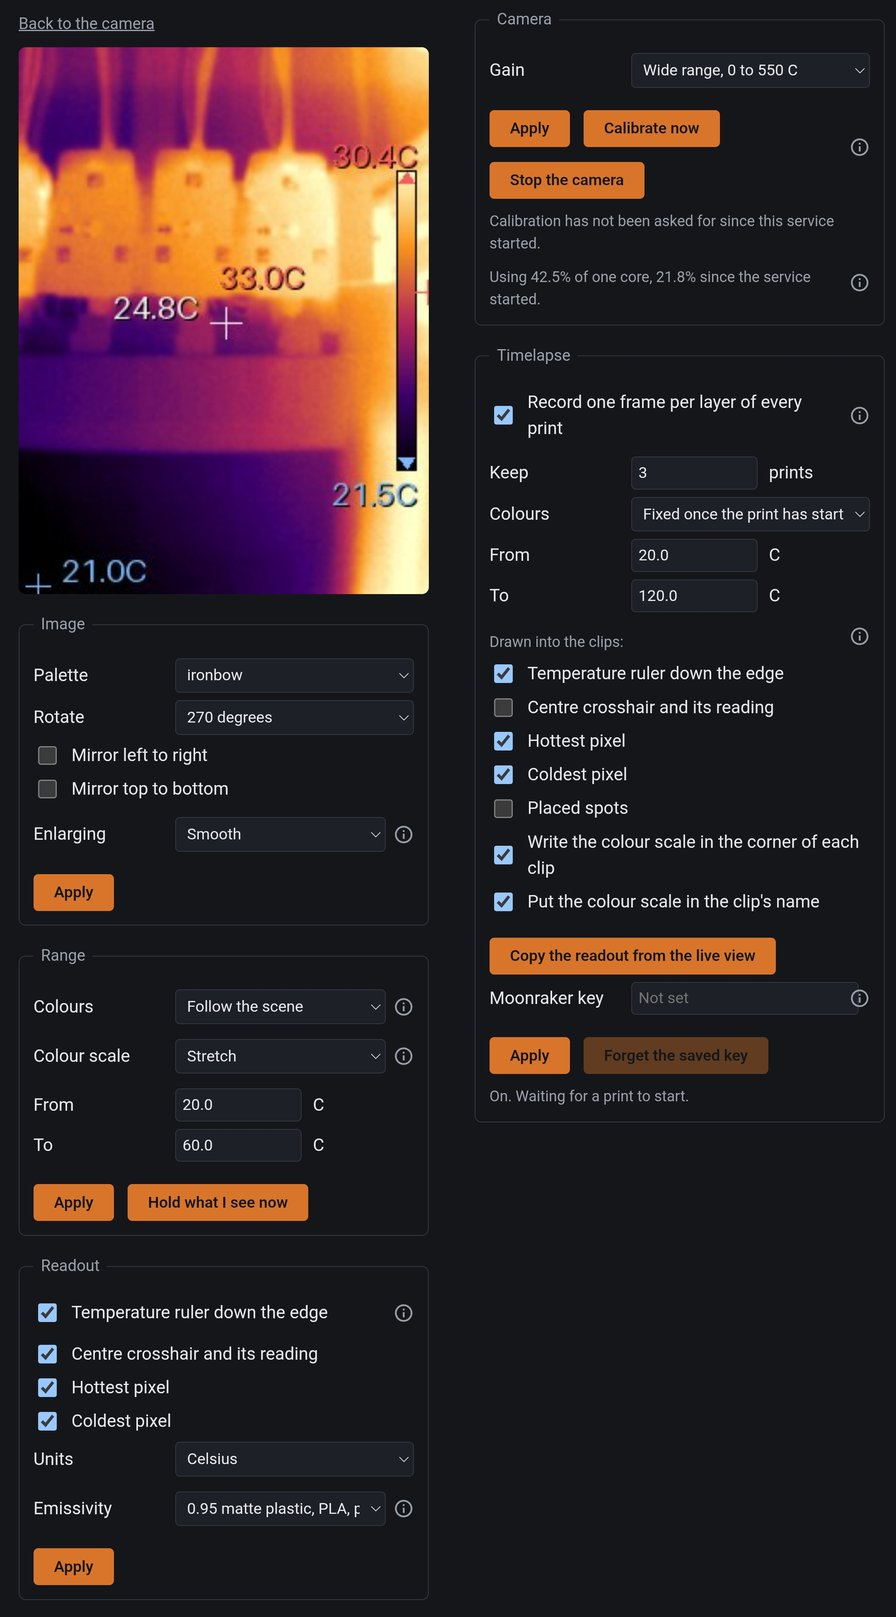
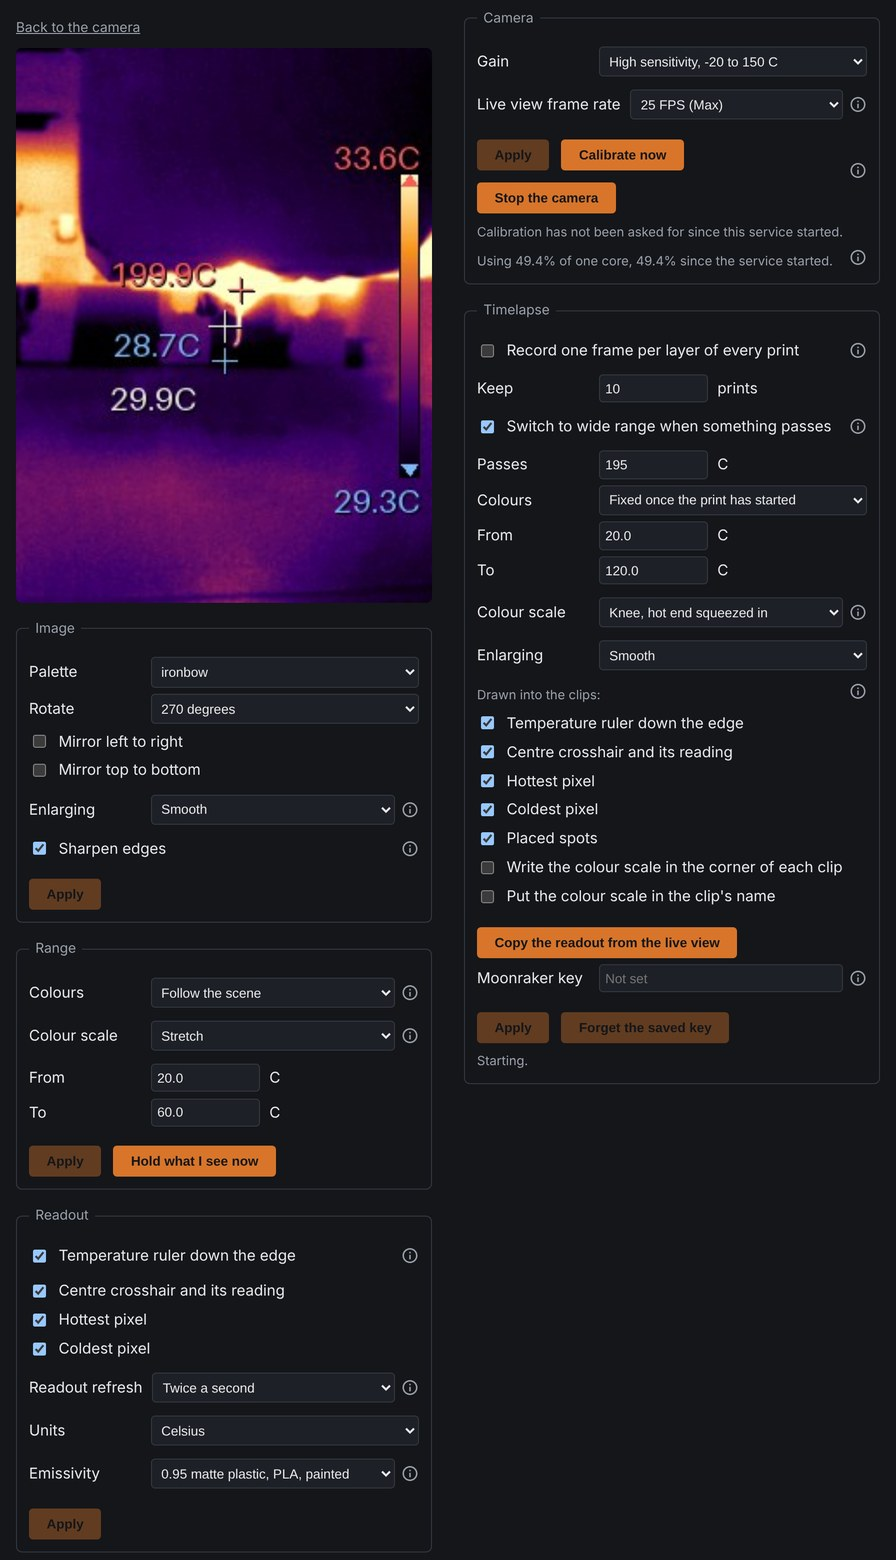
1.0.0: the P3 on a printer, and what the live view costs is yours to choose

diff --git a/plugin/files/lib/thermal_master/page.py b/plugin/files/lib/thermal_master/page.py
@@ -60,7 +60,7 @@ from .version import plugin_version
 # interpolation.
 UPSCALE_FILTER_DESCRIPTIONS = {
     "smooth": "Smooth",
-    "sharp": "Sharp, cheaper",
+    "sharp": "Sharp",
 }
 
 
@@ -185,8 +185,9 @@ INFO_TEXTS = {
         "happens while some part of the readout is switched on. Smooth blends the sensor's pixels "
         "and enlarges only as far as the text needs: twice for a P1, one and a quarter times for "
         "a P3. Sharp leaves them as squares, in whole steps, so twice for both. With a P1, sharp "
-        "is about a sixth less work for the printer per frame. Which one looks better depends on "
-        "the scene and the screen.",
+        "is about a sixth less work for the printer per frame. With a P3 it is the other way "
+        "round: smooth is slightly less work, because it enlarges less. Which one looks better "
+        "depends on the scene and the screen.",
     ),
     "sharpening": (
         "sharpening",

diff --git a/plugin/tests/test_page_info.py b/plugin/tests/test_page_info.py
@@ -62,3 +62,15 @@ def test_the_foot_of_the_page_names_the_version(thermal_streamer, palettes):
     version = json.loads(MANIFEST.read_text())["version"]
 
     assert f'<p class="version">Thermal Master {version}</p>' in page(thermal_streamer, palettes)
+
+
+def test_sharp_enlarging_is_not_called_cheaper(thermal_streamer, palettes):
+    """It is for a P1 and it is not for a P3, which it enlarges twice where smooth stops short."""
+
+    store = thermal_streamer.SettingsStore("ironbow", thermal_streamer.RenderSettings(), None)
+
+    page = thermal_streamer.render_control_page(store.as_dict(), list(palettes))
+
+    assert '<option value="sharp">Sharp</option>' in page
+    assert "cheaper" not in page
+    assert "With a P3 it is the other way round" in page

diff --git a/plugin/doc/README.md b/plugin/doc/README.md
@@ -34,8 +34,8 @@ applies:
 - Discount code: `THERMALYML01`, at that shop
 
 It is an affiliate link, so the project earns a commission, at no extra cost to you. It changes
-nothing about what this documentation says: the P3 still has not been tested, which is worth knowing
-before buying one.
+nothing about what this documentation says: [Hardware status](#hardware-status) lists what has not
+been checked on a P3 yet, which is worth knowing before buying one.
 
 ## Setting it up
 
@@ -53,7 +53,7 @@ recalibrate the sensor. Changes take effect immediately and are remembered acros
 beside an option explains it: hover over it to read, or click it to keep the explanation open until
 the next click. The plugin's version is at the foot of the page.
 
-![The settings page on a phone: the live picture and the Image, Range and Readout panels, then the Camera and Timelapse panels](images/settings.jpg)
+![The settings page on a phone, with a P3 looking at a hot nozzle: the live picture and the Image, Range and Readout panels, then the Camera and Timelapse panels](images/settings.jpg)
 
 | Panel | Setting | JSON field | Values |
 | --- | --- | --- | --- |
@@ -127,9 +127,14 @@ Where two markers land close together, the second one moves its number rather th
 first.
 
 Burned into the picture rather than drawn over it, so the stream and the still carry their own
-readout wherever they are opened, including anything that fetches them outside this plugin. The cost is that switching the readout on doubles
-the encoded size, so the text survives being scaled by a browser. Switching it off returns the
-plugin to what it cost without a readout.
+readout wherever they are opened, including anything that fetches them outside this plugin. The
+cost is that switching the readout on enlarges the encoded picture, so the text survives being
+scaled by a browser: twice for a P1, and one and a quarter times for a P3 with smooth enlarging.
+Switching it off returns the plugin to what it cost without a readout.
+
+In the live view the ruler's numbers and the markers are worked out twice a second and hold still
+in between, while the colours follow every frame. "Readout refresh" changes that, up to every
+frame; [What each setting costs](#what-each-setting-costs) has what each choice is worth.
 
 `/thermal/stats` serves the same numbers as JSON, along with the frame average and the coldest
 pixel, and the pixel coordinates of both extremes in the orientation you are looking at.
@@ -220,9 +225,9 @@ Temperatures remain the camera's own readings with an emissivity correction appl
 watching a nozzle warm up or finding a cold corner of a bed; not metrology.
 
 The P1 is the camera this has been developed and run against, on a printer, every step of the way.
-The P3 is implemented from the same driver and its own model configuration, and has never been run
-on a printer: the resolution, the model detection and the gain modes are all in place and none of
-them have met the hardware. If you have a P3, it should work, and a report either way is welcome.
+The P3 has run on the same printer since November 2026: the model detection, the resolution, the
+picture and the calibration have met the hardware. Its wide range gain has not been tried yet, and
+neither camera's readings have been checked against a known temperature.
 
 ## Timelapse
 
@@ -364,8 +369,8 @@ written for was most of them.
 **Off is the deeper version of the same idea, and it is a button.** Stop, on the settings page or
 in the camera view's toolbar, releases the USB device: nothing is read, nothing is rendered, and
 the camera can be unplugged. Start brings it back. Measured on the U1 with the camera off and
-nothing open, the plugin used 0.0% of a core over half a minute, against 4.6% idling and 40.6%
-before any of this existed.
+nothing open, the plugin used 0.0% of a core over half a minute, against 2.1% idling with a P1
+today and 40.6% before any of this existed.
 
 While it is off, everything that shows the camera shows a "Stream off" picture naming the button
 that restarts it, rather than a broken image or an error, because that picture travels the same
@@ -387,9 +392,60 @@ Both printers measured below have four cores, so 100% of one core is a quarter o
 the figure can pass 100% because the plugin has more than one thread. It reads highest on the
 settings page itself, which holds a live stream open and is therefore somebody watching.
 
-### Measured on two printers
+### What each setting costs
 
-As a share of one core, read from the kernel.
+Measured on a Snapmaker U1 on 2026-11-13 and 2026-11-14 with `scripts/measure-cpu-on-printer.sh`,
+each state held for 30 seconds, as a share of one of its four Cortex-A53 cores. One dashboard
+tile open in Fluidd and nothing else, smooth enlarging, "Sharpen edges" on, the whole readout on,
+unless the row says otherwise.
+
+**What is open**
+
+| State | P1 | P3 |
+| --- | --- | --- |
+| Camera stopped | 0.0% | not measured |
+| Nothing watching | 2.1% | 2.5% |
+| A tile open, live view Off (the timelapse still records) | 2.6% | 2.8% |
+| A tile open, as installed: 25 FPS, readout twice a second | 34.4% | 49.4% |
+
+**Live view frame rate**, with the readout drawn on every frame
+
+| Live view frame rate | P1 | P3 |
+| --- | --- | --- |
+| 25 FPS (Max) | 40.4% | 56.3% |
+| 20 FPS | 33.8% | 45.5% |
+| 15 FPS | 25.9% | 34.9% |
+| 10 FPS | 17.9% | 23.9% |
+| 5 FPS | 10.2% | 13.3% |
+| Off | 2.6% | 2.8% |
+
+Each picture a second is about 1.5 points for a P1 and 2.1 for a P3.
+
+**Readout refresh**, at 25 FPS
+
+| Readout refresh | P1 | saved | P3 | saved |
+| --- | --- | --- | --- | --- |
+| Every frame | 38.9% | | 54.5% | |
+| 5 times a second | 36.4% | 2.5 | 51.6% | 2.9 |
+| Twice a second, as installed | 34.4% | 4.5 | 49.4% | 5.1 |
+| Once a second | 33.7% | 5.2 | 49.1% | 5.4 |
+
+**The other switches**, at 25 FPS with the readout drawn on every frame
+
+| Change | P1 | P3 |
+| --- | --- | --- |
+| "Sharpen edges" off | about 5 points less | about 7 points less |
+| Enlarging set to Sharp | not measured | about 2.6 points more |
+
+The two "every frame at 25 FPS" figures for each camera, a day apart, differ by a point or two:
+that is how far two runs of the same thing can be apart, so read a difference smaller than that
+as none. A figure measured on one printer says little about another; the settings page's own line
+is the one to trust on yours.
+
+### Measured on two printers, in September 2026
+
+Older figures, from before the changes above, kept because they are the only ones from a second
+printer. A P1, as a share of one core, read from the kernel.
 
 | What is open | Snapmaker U1, four Cortex-A53 cores | Raspberry Pi 4, four Cortex-A72 cores |
 | --- | --- | --- |
@@ -498,10 +554,10 @@ Run end to end on a U1 with a P1 attached, and every release has been confirmed 
 tile renders in Fluidd and Mainsail, the control page changes palette, orientation and the readout
 live, the viewer works inside a dashboard tile, and the settings survive a restart.
 
-Measured on that printer, as a share of one of its four Cortex-A53 cores: 45.7% with the viewer open
-and the pointer moving, 41.9% with a dashboard tile visible, 4.6% with nothing watching, and 0.0%
-with the camera switched off. The settings page reports the same figure for itself, so you do not
-have to take this table's word for it.
+Measured on that printer, as a share of one of its four Cortex-A53 cores: 34.4% with a dashboard
+tile visible as installed, 2.1% with nothing watching, and 0.0% with the camera stopped.
+[What each setting costs](#what-each-setting-costs) has the rest. The settings page reports the
+same figure for itself, so you do not have to take a table's word for it.
 
 It has also run on a second Klipper printer, an Ender 2 Pro driven by a Raspberry Pi 4 on
 Debian 12, started by hand rather than installed through Bespok3d, since the app does not support
@@ -510,7 +566,10 @@ unplug and replug recovered on its own. What it costs there is in the table unde
 [What it costs when you are not looking](#what-it-costs-when-you-are-not-looking): 36.4% of one
 core with the viewer open, 4.1% with nothing watching.
 
-The P3 is driven by the same code path and the same protocol but has not been in front of one yet.
+A P3 has run on the same U1 since 2026-11-12: the picture, the viewer, the settings page and the
+timelapse work, and a calibration pressed with the stream open does not interrupt it. One tile
+costs 49.4% of a core as installed and 2.5% with nothing watching. Not checked yet: the wide range
+gain, and its readings against a known temperature.
 
 Worth checking after an install:
 

diff --git a/README.md b/README.md
@@ -32,25 +32,71 @@ of a camera plugin that does not use V4L2; for the concepts, see the Bespok3d do
 
 ### What it costs the printer
 
-Measured on both printers with `scripts/measure-cpu-on-printer.sh`, as a share of one core:
+A printer has a print to run, so what the plugin takes from the processor is measured rather than
+guessed, and most of it is yours to turn down. As installed, one dashboard tile costs about a
+third of one core with a P1 and about half of one with a P3; with nothing open, under 3%.
 
-| State | Snapmaker U1 (Cortex-A53) | Raspberry Pi 4 (Cortex-A72) |
+Measured on a Snapmaker U1 on 2026-11-13 and 2026-11-14 with `scripts/measure-cpu-on-printer.sh`,
+each state held for 30 seconds, as a share of one of its four Cortex-A53 cores. One dashboard
+tile open in Fluidd and nothing else, smooth enlarging, "Sharpen edges" on, the whole readout on,
+unless the row says otherwise.
+
+**What is open**
+
+| State | P1 | P3 |
 | --- | --- | --- |
-| Camera switched off | 0.0% | 0.1% |
-| Nothing watching | 4.6% | 4.1% |
-| A dashboard tile visible | 41.9% | 37.5% |
-| The viewer open, pointer moving | 45.7% | 36.4% |
+| Camera stopped | 0.0% | not measured |
+| Nothing watching | 2.1% | 2.5% |
+| A tile open, live view Off (the timelapse still records) | 2.6% | 2.8% |
+| A tile open, as installed: 25 FPS, readout twice a second | 34.4% | 49.4% |
 
-It was 62.5% before the rendering pipeline was profiled, and 40.6% at rest before the plugin
-learned to stop working when nobody is looking; ROADMAP sections 5 and 7g tell how it got here. The
-settings page shows the plugin's own share live.
+**Live view frame rate**, with the readout drawn on every frame
+
+| Live view frame rate | P1 | P3 |
+| --- | --- | --- |
+| 25 FPS (Max) | 40.4% | 56.3% |
+| 20 FPS | 33.8% | 45.5% |
+| 15 FPS | 25.9% | 34.9% |
+| 10 FPS | 17.9% | 23.9% |
+| 5 FPS | 10.2% | 13.3% |
+| Off | 2.6% | 2.8% |
+
+Each picture a second is about 1.5 points for a P1 and 2.1 for a P3.
+
+**Readout refresh**, at 25 FPS
+
+| Readout refresh | P1 | saved | P3 | saved |
+| --- | --- | --- | --- | --- |
+| Every frame | 38.9% | | 54.5% | |
+| 5 times a second | 36.4% | 2.5 | 51.6% | 2.9 |
+| Twice a second, as installed | 34.4% | 4.5 | 49.4% | 5.1 |
+| Once a second | 33.7% | 5.2 | 49.1% | 5.4 |
+
+**The other switches**, at 25 FPS with the readout drawn on every frame
+
+| Change | P1 | P3 |
+| --- | --- | --- |
+| "Sharpen edges" off | about 5 points less | about 7 points less |
+| Enlarging set to Sharp | not measured | about 2.6 points more |
+
+The two "every frame at 25 FPS" figures for each camera, a day apart, differ by a point or two:
+that is how far two runs of the same thing can be apart, so read a difference smaller than that
+as none. A figure measured on one printer says little about another; the settings page's own line
+is the one to trust on yours.
+
+A P1 was 62.5% before the rendering pipeline was profiled and 40.6% at rest before the plugin
+learned to stop working when nobody is looking, and a P3 was 81.9% on the first day it met a
+printer; ROADMAP sections 5 and 7g and finding F-78 tell how it got here. The plugin's own
+documentation has the older figures from a Raspberry Pi 4. The settings page shows the plugin's
+own share live.
 
 ## Sponsorship
 
 Thermal Master supports this project with hardware and an affiliate arrangement. It does not fund
 it, and it does not buy any of the technical content: the figures above are measurements from a
-printer, the [hardware status](#hardware-status) says plainly that the P3 has not been tested, and
-anything that stops being true about either camera gets written here whatever the arrangement is.
+printer, the [hardware status](#hardware-status) says plainly what has and has not been checked
+on each camera, and anything that stops being true about either one gets written here whatever
+the arrangement is.
 
 ### Where to buy a P1
 
@@ -79,9 +125,11 @@ with Debian 12, since 2026-09-29. Bespok3d does not support that printer yet, so
 started by hand, from the same wheels the U1 package ships. The camera, the viewer and the
 timelapse work, and a replug recovers. ROADMAP section 9 has the details.
 
-**P3:** driven by the same code, protocol and driver configuration, and not yet tested on a
-printer. Its 256x192 sensor size is read from the driver rather than assumed. If you have a P3, it
-should work, and a report either way is welcome.
+**P3 on a Snapmaker U1:** running since 2026-11-12, from 0.30.x test builds to this release. The
+picture, the viewer, the settings page and the timelapse work, a calibration pressed with the
+stream open does not interrupt it, and every figure in the P3 column above was measured with one.
+Not checked yet: the wide range gain, and its readings against a known temperature. It costs about
+half as much again as a P1, because its sensor has two and a half times the pixels.
 
 ## Layout
 

diff --git a/plugin/doc/CHANGELOG.md b/plugin/doc/CHANGELOG.md
@@ -1,5 +1,45 @@
 # Changelog
 
+## 1.0.0
+
+The first release with a P3 on a printer, and the one that lets you choose what the live view
+costs. Everything here was measured on a Snapmaker U1 with both cameras; the figures are in the
+README under "What each setting costs".
+
+- **The P3 runs on a printer.** It was written from the driver's description and had never met
+  one. It now streams on a U1, with the viewer, calibration and the timelapse working. Its wide
+  range gain and its readings against a known temperature are still to be checked.
+- **A P3 costs a third less than it did.** One dashboard tile was 81.9% of one core on 0.30.0 and
+  is 54.5% with the same settings, and 49.4% as installed. A P3's picture is enlarged one and a
+  quarter times instead of twice when enlarging is smooth, which is as far as the text needs;
+  the picture is turned before it is coloured; and the plugin keeps the memory it works in
+  instead of fetching it again on every frame.
+- **A frame comes off the camera in two USB reads** instead of fourteen for a P3 and six for a
+  P1. The camera is read whether or not anybody is watching, so this is paid all day: with
+  nothing open, a P3 costs 2.5% of one core where reading it the old way cost 9.6%, and a P1
+  costs 2.1%.
+- **"Live view frame rate"**, in the Camera panel: 25 FPS (Max), which is every frame the camera
+  sends and what the plugin always did, or 20, 15, 10 or 5 FPS, or Off. Making pictures is nearly
+  all of what the plugin costs while a page is showing one, so the cost follows the number: a P1
+  goes from 40.4% at 25 to 10.2% at 5, a P3 from 56.3% to 13.3%.
+- **Off keeps the timelapse.** With the live view off the camera stays connected and every layer
+  is still recorded; everything that shows the camera shows a "Live view off" picture instead,
+  for under 3% of one core. It is for a dashboard left open by somebody who wants the clips and
+  not the tile. Stop the camera is still the deeper switch, and takes the timelapse with it.
+- **"Readout refresh"**, in the Readout panel, and **the readout now refreshes twice a second
+  unless you say otherwise.** The ruler's numbers and the markers are worked out twice a second
+  and hold still in between; the colours follow every frame as before. That takes about 5
+  points of one core off either camera. A spot you place or a setting you change shows at once,
+  and timelapse clips are not affected. This changes the picture for everybody who upgrades:
+  choose "Every frame" to have the readout as it was, or 5 times or once a second.
+- **"Sharpen edges" is a switch**, in the Image panel, on as before. Sharpening is the largest
+  single step in making the picture: off, edges are slightly softer and the plugin costs about
+  5 points less with a P1 and about 7 with a P3. Clips follow it.
+- **"Sharp" enlarging is no longer called cheaper**, because for a P3 it is not: it enlarges a
+  P3 twice where smooth enlarges it one and a quarter times. Its (i) says which is which.
+- **Safari.** With the live view off, the tile in Fluidd stayed black in Safari on a Mac, where
+  Chrome shows the "Live view off" picture. The settings page shows it in both.
+
 ## 0.30.0
 
 - **Timelapse clips have their own colour scale, the knee by default.** A clip's colours are fixed

diff --git a/CHANGELOG_DEV.md b/CHANGELOG_DEV.md
@@ -12,6 +12,27 @@ maintainer's printers. The public changelog, `plugin/doc/CHANGELOG.md`, starts a
 one that ships in the package; this file stays in the repository. `ROADMAP.md` has the reasoning
 behind each change.
 
+## 1.0.0, prepared on 2026-11-14
+
+The release the test builds below lead to. Its public entry is in `plugin/doc/CHANGELOG.md`
+and covers 0.30.1 to 0.30.7 in one. What 1.0.0 itself changes on the printer is two texts:
+
+- **"Sharp" is no longer "Sharp, cheaper"** in the Enlarging list, and its (i) says that for a
+  P3 smooth is the cheaper one (0.30.3 on the U1: 62.3% smooth against 64.9% sharp).
+- The manifest's description says what a P3 has and has not been run through, instead of
+  "has not been run on a printer yet"; `updated_at` is 2026-11-14.
+- 0.30.7 on the U1, a P3, one tile, twice a second: 49.4%, as 0.30.6 read at that setting.
+- Docs: both READMEs carry the measured cost of each setting as tables (the state, the live
+  view's rate, the readout refresh, sharpening and enlarging), and the P3's hardware status.
+  The Raspberry Pi 4 table stays, dated September 2026.
+- `plugin/doc/images/settings.jpg` was made again, since it lacked three settings. It is NOT a
+  photograph of the printer: the plugin's own page in Chromium on a development machine, fed a
+  real P3 frame saved from the U1 on 2026-11-12 (`p3-frame-hot.bin`), and its cost line was
+  given the figure measured on the U1 for a P3 as installed, 49.4%, for both of its numbers.
+  The one before is in `_trash/before-1.0.0/plugin-doc/`.
+- The channel stays `rc`. Promoting to stable later is a change of `channel` in the manifest,
+  which the builder's README says is independent of the release kind the Action is given.
+
 ## Test builds after 0.30.0, for what a P3 costs
 
 Written on 2026-11-12, the evening the first P3 met the plugin. 0.30.1 passed the gate and was
@@ -23,7 +44,7 @@ that gives the owner something to choose: how many pictures a second the live vi
 0.30.6, the same day, is the second: how often the numbers on it are worked out. 0.30.7 makes
 twice a second the answer nobody has to give.
 The measurements behind all of them are F-78 and F-79 in `ROADMAP.md`.
-Their public entry is still to be written, with the release they lead to.
+Their public entry is 1.0.0's.
 
 ### 0.30.7
 

diff --git a/ROADMAP.md b/ROADMAP.md
@@ -3372,6 +3372,12 @@ the live view off; in Chrome it shows the off screen. 0.30.6 adds the "Readout r
 setting and the live view's list in FPS. Measured the same day, it saves about 5 points of a
 core at twice a second for either camera, and 0.30.7 makes that the default. 808 tests.
 
+**2026-11-14, evening: 1.0.0 prepared.** 0.30.7 read 49.4% on the U1 with a P3. The public
+changelog has one entry for everything since 0.30.0, both READMEs have the measured cost of
+each setting and the P3's status, "Sharp, cheaper" is "Sharp", and the settings screenshot was
+made again. Still `rc`. Not done for it: the P3's wide range gain and either camera's readings
+against a known temperature, the Safari tile with the live view off, and the upstream report.
+
 What is left, in the order it is worth doing:
 
 - **Closed: the adapter drop test** from F-72: replug the camera in the hub port farthest from the ethernet
